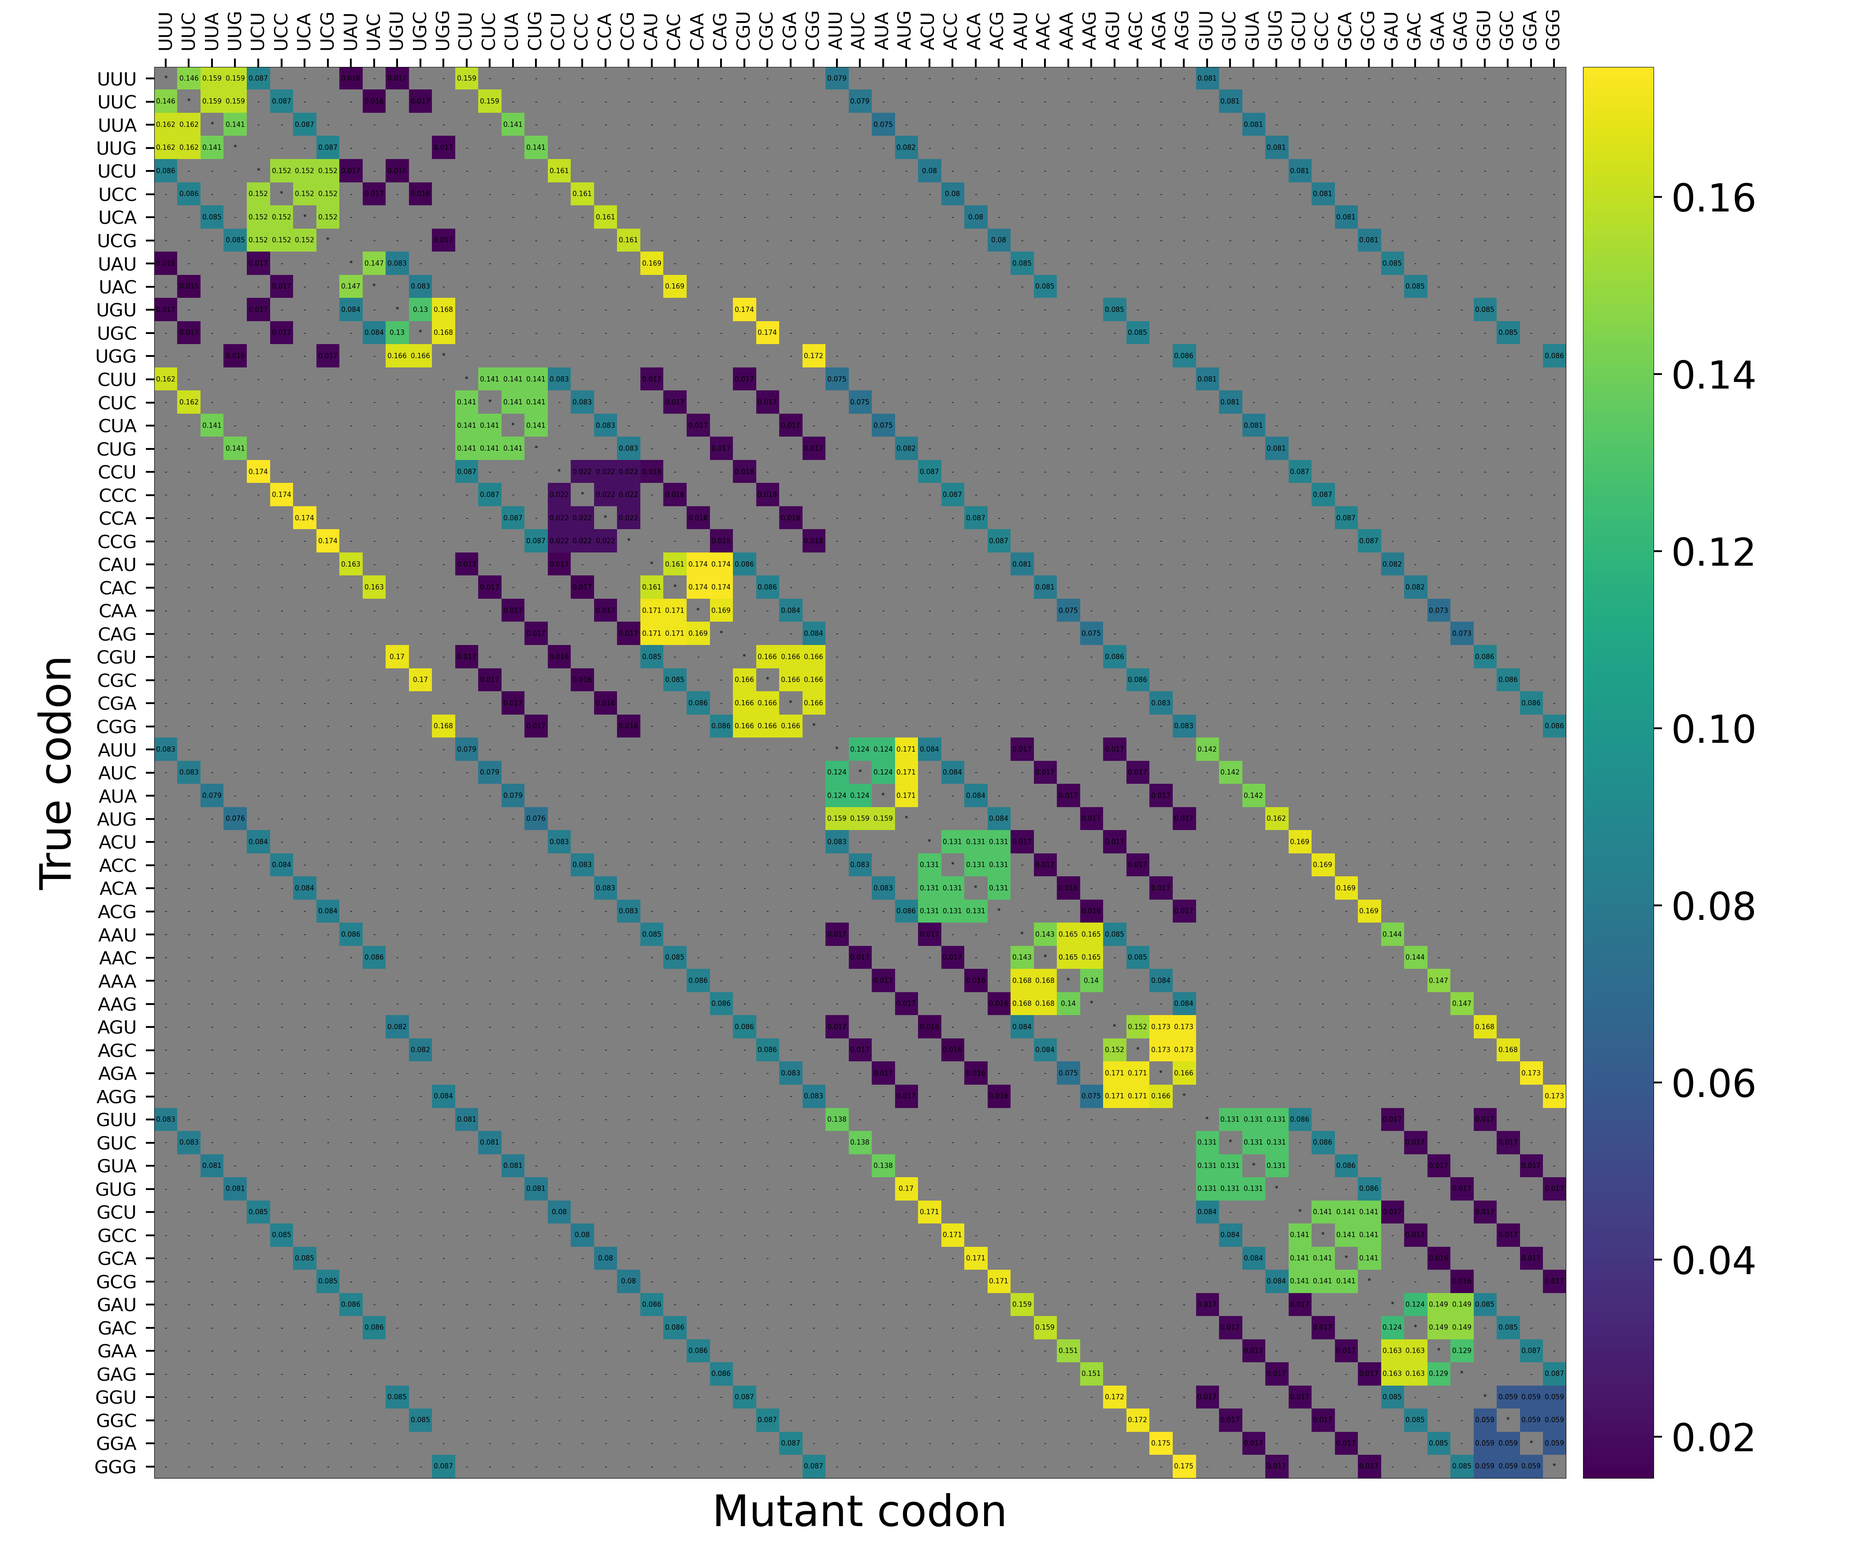
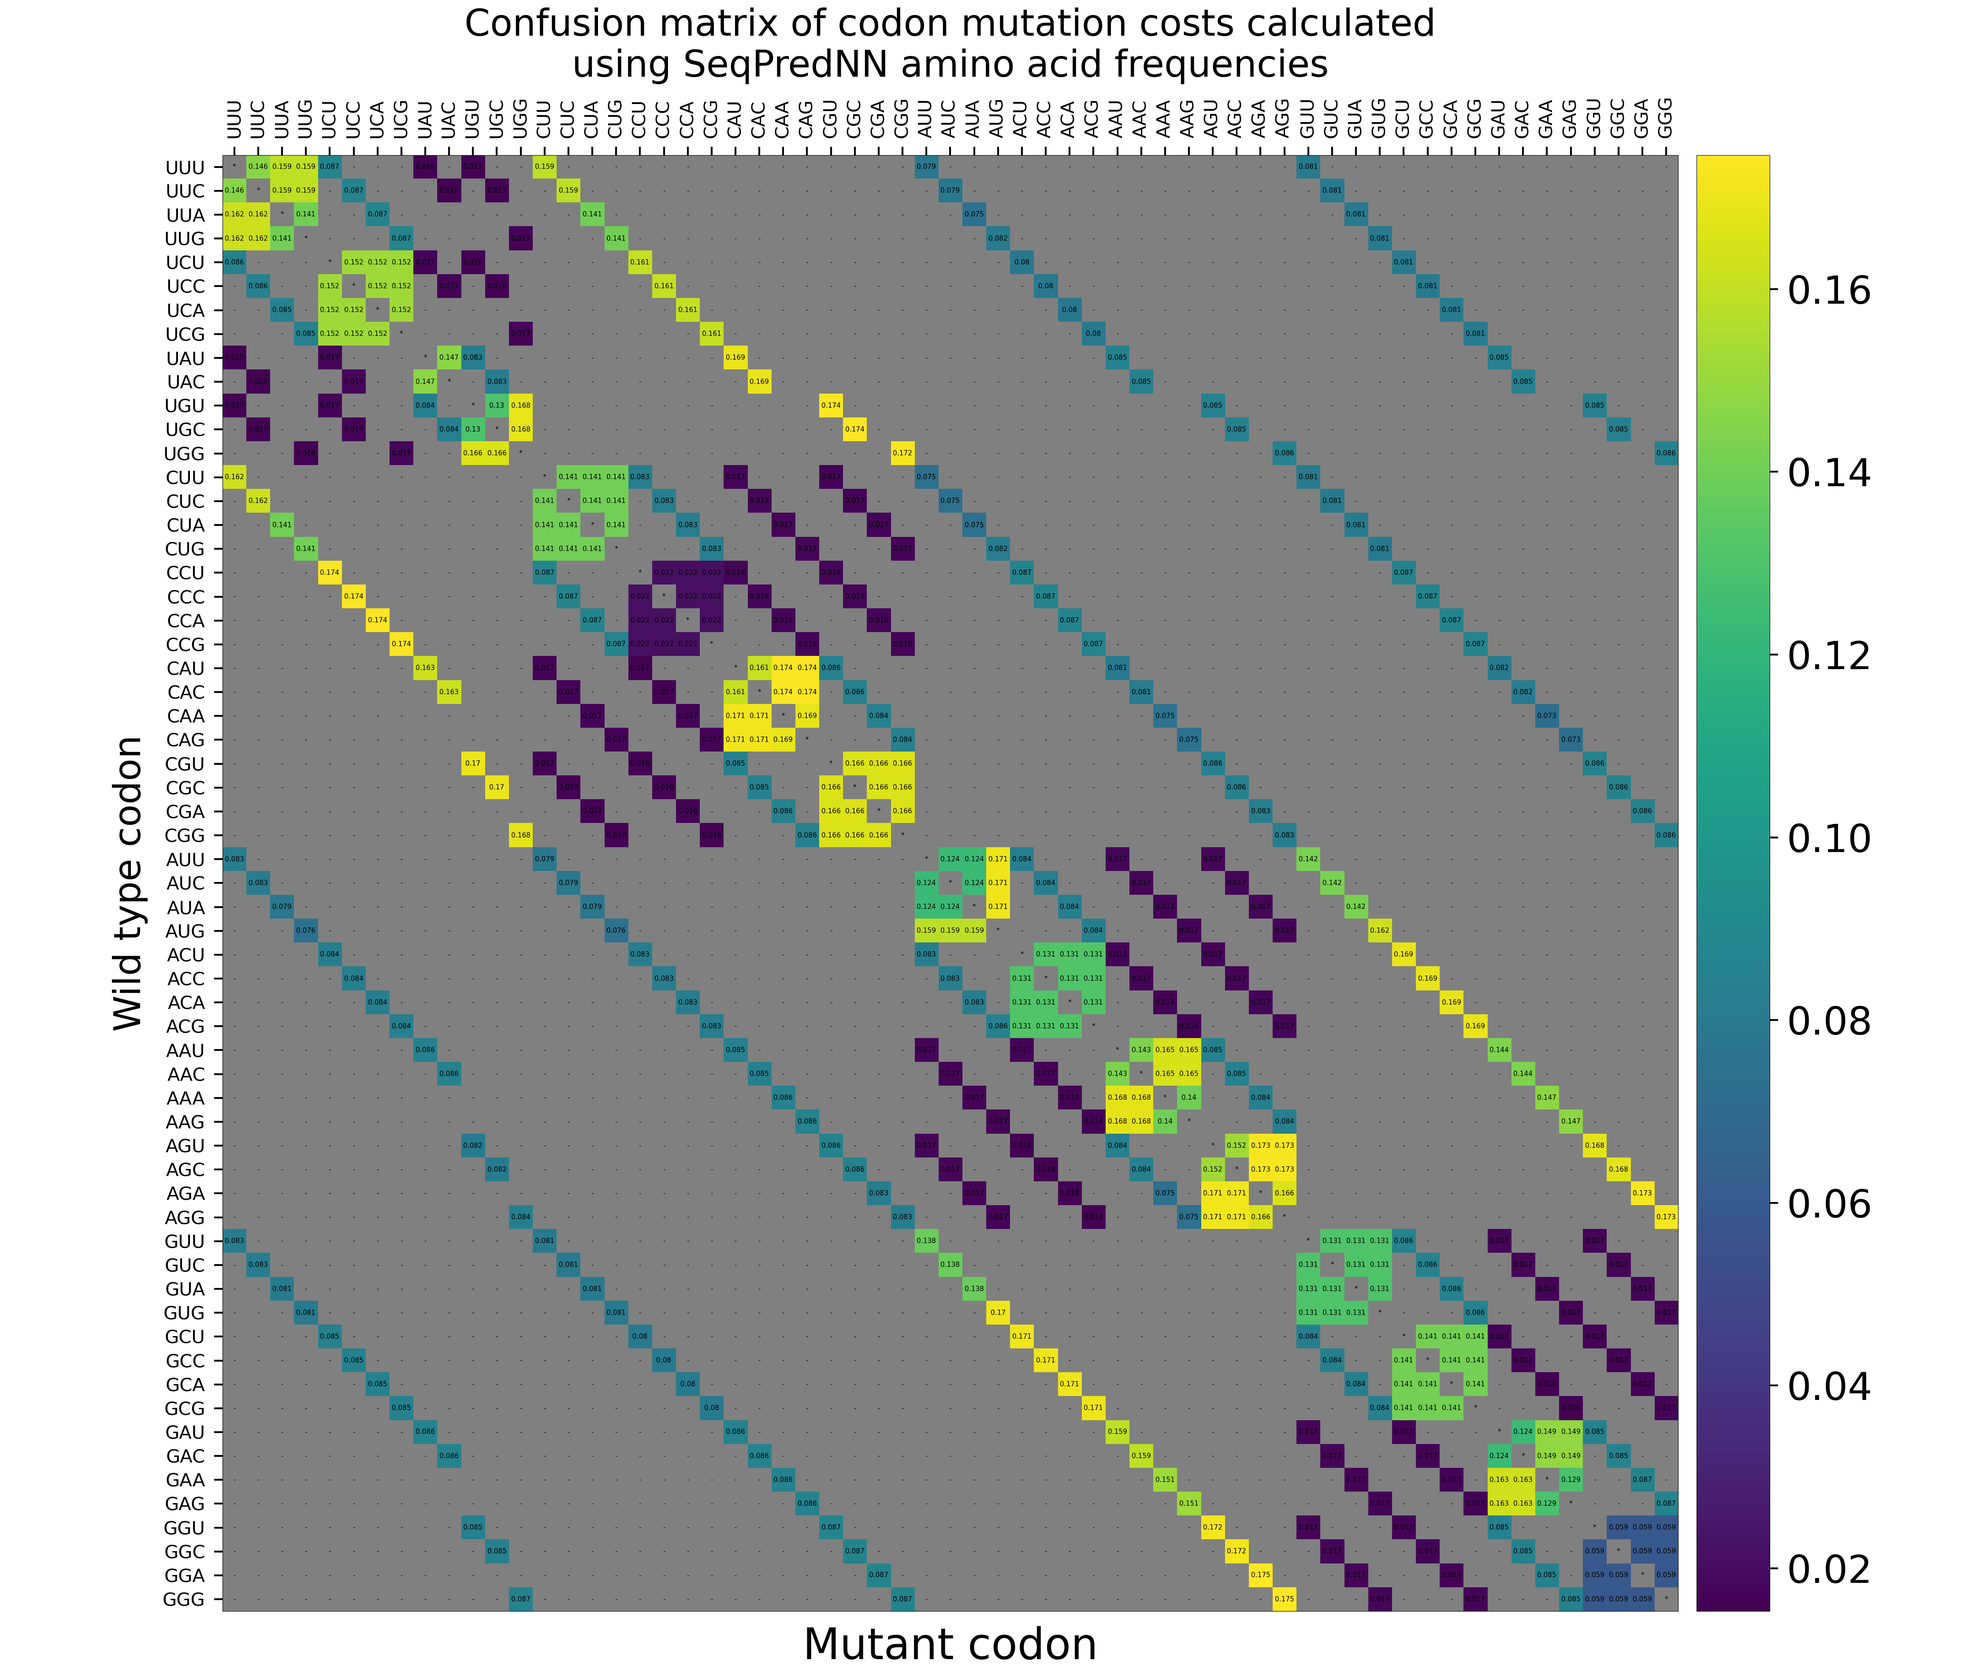
Spearman's rank test

diff --git a/cost_function_stuff/cost_function.py b/cost_function_stuff/cost_function.py
@@ -12,6 +12,7 @@ import numpy
 from scipy.stats import kstest
 from scipy.stats import normaltest
 from scipy.stats import shapiro 
+from scipy.stats import spearmanr 
 import sklearn.metrics as metrics
 
 #generate normalised substitution matrix list from .csv
@@ -24,8 +25,14 @@ for row in range(len(normalised_substitution_matrix)):
 SeqPredNN_codon_matrix = [[0 for x in range(61)] for y in range(61)]
 Koonin_codon_matrix = [[0 for x in range(61)] for y in range(61)]
 
+neutral_substitution_matrix = [[0 for x in range(61)] for y in range(61)]
+neutral_substitution_matrix_PLOTS = [[0 for x in range(61)] for y in range(61)]
+
 SeqPredNN_codon_matrix_PLOTS = [[0 for x in range(61)] for y in range(61)]
 Koonin_codon_matrix_PLOTS = [[0 for x in range(61)] for y in range(61)]
+
+SeqPredNN_codon_matrix_NORM_PLOTS = [[0 for x in range(61)] for y in range(61)]
+Koonin_codon_matrix_NORM_PLOTS = [[0 for x in range(61)] for y in range(61)]
 # Higgs_codon_matrix = [[0 for x in range(61)] for y in range(61)]
 
 SeqPredNN_codon_matrix_NORM = [[0 for x in range(61)] for y in range(61)]
@@ -173,6 +180,8 @@ def get_cost(true_codon_index, mutant_codon_index, mode, codon_dict, codons_with
         aa_difference = 1 - float(normalised_substitution_matrix[true_aa_index][mutant_aa_index])
     elif mode == "Koonin":
         aa_difference = pow((polar_requirement_scale.get(true_aa) - polar_requirement_scale.get(mutant_aa)), 2)
+    elif mode == "neutral":
+        aa_difference = 1
 
     codon_mutation_prob = get_codon_mutation_prob(true_codon, mutant_codon)
     if codon_mutation_prob == '*':
@@ -254,7 +263,7 @@ def generate_sample_set(sample_size, SeqPredNN_sample_code_costs, SeqPredNN_samp
             code_costs.append(get_code_cost(temp_cost_matrix))
 
             #get code cost for normalised data matrix
-            norm_cost_matrix = normalise_matrix(minimum, maximum, temp_cost_matrix)
+            norm_cost_matrix = normalise_matrix_SAMPLES(minimum, maximum, temp_cost_matrix)
 
             norm_code_costs.append(get_code_cost(norm_cost_matrix))
 
@@ -282,42 +291,42 @@ def generate_sample_set(sample_size, SeqPredNN_sample_code_costs, SeqPredNN_samp
         series_norm = pd.Series(norm_code_costs)
         print(series_norm.describe())
         
-        if j == 0:
-            plot_samples(sample_size, code_costs, "SeqPredNN", False)
-            plot_samples(sample_size, norm_code_costs, "SeqPredNN", True)
-        if j == 1:
-            plot_samples(sample_size, code_costs, "Koonin", False)
-            plot_samples(sample_size, norm_code_costs, "Koonin", True)
+        # if j == 0:
+        #     plot_samples(sample_size, code_costs, "SeqPredNN", False)
+        #     plot_samples(sample_size, norm_code_costs, "SeqPredNN", True)
+        # if j == 1:
+        #     plot_samples(sample_size, code_costs, "Koonin", False)
+        #     plot_samples(sample_size, norm_code_costs, "Koonin", True)
 
         code_costs.clear()
         norm_code_costs.clear()
     
-    print("^^^^^^^^^^^^^^^^^^^^^^^^^^^^^^^^^^^^^^^^^^^^^^^^^^^^^^^^^^^^^^^^^^^^^^^^^^^^^^^^^^^^^^^^")
-    print("SeqPredNN_sample_code_costs: " + str(shapiro(SeqPredNN_sample_code_costs)))
-    if shapiro(SeqPredNN_sample_code_costs).pvalue > 0.05:
-        print("Normal = TRUE")
-    print("SeqPredNN_sample_code_costs_NORM: " + str(shapiro(SeqPredNN_sample_code_costs_NORM)))
-    if shapiro(SeqPredNN_sample_code_costs_NORM).pvalue > 0.05:
-        print("Normal = TRUE")
-    print("Koonin_sample_code_costs: " + str(shapiro(Koonin_sample_code_costs)))
-    if shapiro(Koonin_sample_code_costs).pvalue > 0.05:
-        print("Normal = TRUE")
-    print("Koonin_sample_code_costs_NORM: " + str(shapiro(Koonin_sample_code_costs_NORM)))
-    if shapiro(Koonin_sample_code_costs_NORM).pvalue > 0.05:
-        print("Normal = TRUE")
-    print("^^^^^^^^^^^^^^^^^^^^^^^^^^^^^^^^^^^^^^^^^^^^^^^^^^^^^^^^^^^^^^^^^^^^^^^^^^^^^^^^^^^^^^^^")
-    print("SeqPredNN_sample_code_costs: " + str(normaltest(SeqPredNN_sample_code_costs)))
-    if normaltest(SeqPredNN_sample_code_costs).pvalue > 0.05:
-        print("Normal = TRUE")
-    print("SeqPredNN_sample_code_costs_NORM: " + str(normaltest(SeqPredNN_sample_code_costs_NORM)))
-    if normaltest(SeqPredNN_sample_code_costs_NORM).pvalue > 0.05:
-        print("Normal = TRUE")
-    print("Koonin_sample_code_costs: " + str(normaltest(Koonin_sample_code_costs)))
-    if normaltest(Koonin_sample_code_costs).pvalue > 0.05:
-        print("Normal = TRUE")
-    print("Koonin_sample_code_costs_NORM: " + str(normaltest(Koonin_sample_code_costs_NORM)))
-    if normaltest(Koonin_sample_code_costs_NORM).pvalue > 0.05:
-        print("Normal = TRUE")
+    # print("^^^^^^^^^^^^^^^^^^^^^^^^^^^^^^^^^^^^^^^^^^^^^^^^^^^^^^^^^^^^^^^^^^^^^^^^^^^^^^^^^^^^^^^^")
+    # print("SeqPredNN_sample_code_costs: " + str(shapiro(SeqPredNN_sample_code_costs)))
+    # if shapiro(SeqPredNN_sample_code_costs).pvalue > 0.05:
+    #     print("Normal = TRUE")
+    # print("SeqPredNN_sample_code_costs_NORM: " + str(shapiro(SeqPredNN_sample_code_costs_NORM)))
+    # if shapiro(SeqPredNN_sample_code_costs_NORM).pvalue > 0.05:
+    #     print("Normal = TRUE")
+    # print("Koonin_sample_code_costs: " + str(shapiro(Koonin_sample_code_costs)))
+    # if shapiro(Koonin_sample_code_costs).pvalue > 0.05:
+    #     print("Normal = TRUE")
+    # print("Koonin_sample_code_costs_NORM: " + str(shapiro(Koonin_sample_code_costs_NORM)))
+    # if shapiro(Koonin_sample_code_costs_NORM).pvalue > 0.05:
+    #     print("Normal = TRUE")
+    # print("^^^^^^^^^^^^^^^^^^^^^^^^^^^^^^^^^^^^^^^^^^^^^^^^^^^^^^^^^^^^^^^^^^^^^^^^^^^^^^^^^^^^^^^^")
+    # print("SeqPredNN_sample_code_costs: " + str(normaltest(SeqPredNN_sample_code_costs)))
+    # if normaltest(SeqPredNN_sample_code_costs).pvalue > 0.05:
+    #     print("Normal = TRUE")
+    # print("SeqPredNN_sample_code_costs_NORM: " + str(normaltest(SeqPredNN_sample_code_costs_NORM)))
+    # if normaltest(SeqPredNN_sample_code_costs_NORM).pvalue > 0.05:
+    #     print("Normal = TRUE")
+    # print("Koonin_sample_code_costs: " + str(normaltest(Koonin_sample_code_costs)))
+    # if normaltest(Koonin_sample_code_costs).pvalue > 0.05:
+    #     print("Normal = TRUE")
+    # print("Koonin_sample_code_costs_NORM: " + str(normaltest(Koonin_sample_code_costs_NORM)))
+    # if normaltest(Koonin_sample_code_costs_NORM).pvalue > 0.05:
+    #     print("Normal = TRUE")
     
 #plot bar graphs for samples produced
 def plot_samples(sample_size, costs, model, normalised):
@@ -403,12 +412,22 @@ def make_csvs():
             file.write(codons_excl_stop[counter] + "," + ",".join(map(str, codon_list)) + "\n")
             counter += 1
 
+    filename = "Neutral_subst_cost_matrix.csv"
+    codon_string = " ," + ",".join(codons_excl_stop) + "\n"
+    with open(filename, mode="w") as file:
+        file.write(codon_string) #first line
+        counter = 0
+        for codon_list in neutral_substitution_matrix:
+            file.write(codons_excl_stop[counter] + "," + ",".join(map(str, codon_list)) + "\n")
+            counter += 1
+
 #start cost calculations
 def calculate_SeqPredNN_and_Koonin_matrices():
     for row in range(61):
         for cell in range(61):
             SeqPredNN_codon_matrix[row][cell] = get_cost(row, cell, "SeqPredNN", codons_per_aa, codons_excl_stop, False)
             Koonin_codon_matrix[row][cell] = get_cost(row, cell, "Koonin", codons_per_aa, codons_excl_stop, False)
+            neutral_substitution_matrix[row][cell] = get_cost(row, cell, "neutral", codons_per_aa, codons_excl_stop, False)
 
             if not isinstance(SeqPredNN_codon_matrix[row][cell], str):
                 SeqPredNN_check.append(SeqPredNN_codon_matrix[row][cell])
@@ -416,10 +435,29 @@ def calculate_SeqPredNN_and_Koonin_matrices():
             if not isinstance(Koonin_codon_matrix[row][cell], str):
                 Koonin_check.append(Koonin_codon_matrix[row][cell])
 
+            if not isinstance(neutral_substitution_matrix[row][cell], str):
+                neutral_check.append(neutral_substitution_matrix[row][cell])
+
             SeqPredNN_codon_matrix_PLOTS[row][cell] = get_cost(row, cell, "SeqPredNN", codons_per_aa, codons_excl_stop, True)
             Koonin_codon_matrix_PLOTS[row][cell] = get_cost(row, cell, "Koonin", codons_per_aa, codons_excl_stop, True)
+            neutral_substitution_matrix_PLOTS[row][cell] = get_cost(row, cell, "neutral", codons_per_aa, codons_excl_stop, True)
 
-def normalise_matrix(minimum, maximum, original_matrix):
+def normalise_matrix(minimum, maximum, original_matrix, plot_matrix, norm_check):
+    normalised = [[0 for x in range(61)] for y in range(61)]
+
+    for row in range(len(original_matrix)):
+        for cell in range(len(original_matrix)):
+            if not isinstance(original_matrix[row][cell], str):
+                normalised[row][cell] = normalise_cost(minimum, maximum, original_matrix[row][cell])
+                plot_matrix[row][cell] = normalise_cost(minimum, maximum, original_matrix[row][cell])
+                norm_check.append(normalised[row][cell])
+            if isinstance(original_matrix[row][cell], str):
+                normalised[row][cell] = original_matrix[row][cell]
+                plot_matrix[row][cell] = -10
+
+    return(normalised)
+
+def normalise_matrix_SAMPLES(minimum, maximum, original_matrix):
     normalised = [[0 for x in range(61)] for y in range(61)]
 
     for row in range(len(original_matrix)):
@@ -432,15 +470,17 @@ def normalise_matrix(minimum, maximum, original_matrix):
     return(normalised)
 
 # def confusion_matrix(self, true_residues, predicted_residues, normalize, file_name):
-def confusion_matrix(plot_matrix, original_matrix, minimum, maximum, filename):
+def confusion_matrix(plot_matrix, original_matrix, minimum, maximum, filename, title):
 
-    fig, ax = plt.subplots(figsize=(42, 35))
+    fig, ax = plt.subplots(figsize=(45, 38))
     plt.rcParams['font.size'] = 11
+    plt.rcParams['axes.titlesize'] = 60
 
     cmap = matplotlib.colormaps.get_cmap('viridis')
     cmap.set_under(color='grey')
     img = ax.imshow(plot_matrix, cmap=cmap, vmin=minimum, vmax=maximum)
 
+    plt.title(title, pad=30)
     ax.set_xticks(np.arange(61))
     ax.set_yticks(np.arange(61))
     ax.set_xticklabels(codons_excl_stop, rotation = 90)
@@ -449,10 +489,8 @@ def confusion_matrix(plot_matrix, original_matrix, minimum, maximum, filename):
     ax.tick_params(bottom=False, top=True, left=True, right=False)
     ax.tick_params(labelbottom=False, labeltop=True, labelleft=True, labelright=False)
     ax.set_xlabel('Mutant codon', fontsize=70, labelpad=24)
-    ax.set_ylabel('True codon', fontsize=70, labelpad=24)
+    ax.set_ylabel('Wild type codon', fontsize=60, labelpad=24)
 
-    # psm = ax.pcolormesh(plot_matrix, cmap='viridis', vmin=minimum, vmax=maximum)
-    # fig.colorbar(psm, ax=ax)
     for i in range(61):
         for j in range(61):
             if not isinstance(original_matrix[i][j], str):
@@ -469,8 +507,6 @@ def confusion_matrix(plot_matrix, original_matrix, minimum, maximum, filename):
     plt.savefig(f'{filename}.png')
     plt.close()
 
-    
-    # plt.close()
 
 SeqPredNN_cost_min = 0
 SeqPredNN_cost_max = 0
@@ -478,7 +514,10 @@ Koonin_cost_min = 0
 Koonin_cost_max = 0
 
 SeqPredNN_check = []
+SeqPredNN_check_NORM = []
 Koonin_check = []
+Koonin_check_NORM = []
+neutral_check = []
 
 #run calculations for SeqPredNN and Koonin matrices
 calculate_SeqPredNN_and_Koonin_matrices()
@@ -488,10 +527,12 @@ SeqPredNN_cost_min = min(SeqPredNN_check)
 SeqPredNN_cost_max = max(SeqPredNN_check)
 Koonin_cost_min = min(Koonin_check)
 Koonin_cost_max = max(Koonin_check)
+neutral_cost_min = min(neutral_check)
+neutral_cost_max = max(neutral_check)
 
 #create normalised codon mutation cost matrices
-SeqPredNN_codon_matrix_NORM = normalise_matrix(SeqPredNN_cost_min, SeqPredNN_cost_max, SeqPredNN_codon_matrix)
-Koonin_codon_matrix_NORM = normalise_matrix(Koonin_cost_min, Koonin_cost_max, Koonin_codon_matrix)
+SeqPredNN_codon_matrix_NORM = normalise_matrix(SeqPredNN_cost_min, SeqPredNN_cost_max, SeqPredNN_codon_matrix, SeqPredNN_codon_matrix_NORM_PLOTS, SeqPredNN_check_NORM)
+Koonin_codon_matrix_NORM = normalise_matrix(Koonin_cost_min, Koonin_cost_max, Koonin_codon_matrix, Koonin_codon_matrix_NORM_PLOTS, Koonin_check_NORM)
 
 #get overall code cost for SeqPredNN and Koonin matrices
 SeqPredNN_code_cost = get_code_cost(SeqPredNN_codon_matrix)
@@ -512,33 +553,23 @@ SeqPredNN_sample_code_costs = []
 SeqPredNN_sample_code_costs_NORM = []
 Koonin_sample_code_costs = []
 Koonin_sample_code_costs_NORM = []
-# generate_sample_set(800, SeqPredNN_sample_code_costs, SeqPredNN_sample_code_costs_NORM, Koonin_sample_code_costs, Koonin_sample_code_costs_NORM)
+generate_sample_set(8000, SeqPredNN_sample_code_costs, SeqPredNN_sample_code_costs_NORM, Koonin_sample_code_costs, Koonin_sample_code_costs_NORM)
+
+#Spearman's rank correlation coefficient:
+print("******************** SPEARMAN'S RANK CORRELATION COEFFICIENTS ON RANDOMLY GENERATED CODON DISTRIBUTIONS ********************")
+print("SeqPredNN vs Koonin: ")
+print(spearmanr(SeqPredNN_sample_code_costs, Koonin_sample_code_costs, alternative='less'))
+print()
+print("SeqPredNN norm vs Koonin norm: ")
+print(spearmanr(SeqPredNN_sample_code_costs_NORM, Koonin_sample_code_costs_NORM, alternative='less'))
+print()
 
 #generate .csv files
-make_csvs()
+# make_csvs()
 
-#generate plots
-confusion_matrix(SeqPredNN_codon_matrix_PLOTS, SeqPredNN_codon_matrix, min(SeqPredNN_check), max(SeqPredNN_check), "SeqPredNN_codon_matrix")
-confusion_matrix(Koonin_codon_matrix_PLOTS, Koonin_codon_matrix, min(Koonin_check), max(Koonin_check), "Koonin_codon_matrix")
-
-symmetrical_S = []
-symmetrical_K = []
-for i in range(61):
-    for j in range(61):
-        if SeqPredNN_codon_matrix[i][j] == SeqPredNN_codon_matrix[j][i]:
-            symmetrical_S.append(True)
-        elif SeqPredNN_codon_matrix[i][j] != SeqPredNN_codon_matrix[j][i]:
-            symmetrical_S.append(False)
-            print("SEQPREDNN NOT SYMMETRICAL: i=" + str(i) + " j=" + str(j))
-            
-        if Koonin_codon_matrix[i][j] == Koonin_codon_matrix[j][i]:
-            symmetrical_K.append(True)
-        elif Koonin_codon_matrix[i][j] != Koonin_codon_matrix[j][i]:
-            symmetrical_K.append(False)
-            print("KOONIN NOT SYMMETRICAL: i=" + str(i) + " j=" + str(j))
-
-if False in symmetrical_S:
-    print("SEQPREDNN NOT SYMMETRICAL")
-
-if False in symmetrical_K:
-    print("KOONIN NOT SYMMETRICAL")
+# #generate plots
+# confusion_matrix(SeqPredNN_codon_matrix_PLOTS, SeqPredNN_codon_matrix, SeqPredNN_cost_min, SeqPredNN_cost_max, "SeqPredNN_codon_matrix", "Confusion matrix of codon mutation costs calculated\nusing SeqPredNN amino acid frequencies")
+# confusion_matrix(SeqPredNN_codon_matrix_NORM_PLOTS, SeqPredNN_codon_matrix_NORM, min(SeqPredNN_check_NORM), max(SeqPredNN_check_NORM), "SeqPredNN_codon_matrix_NORM", "Confusion matrix of normalised codon mutation costs calculated\nusing SeqPredNN amino acid frequencies")
+# confusion_matrix(Koonin_codon_matrix_PLOTS, Koonin_codon_matrix, Koonin_cost_min, Koonin_cost_max, "Koonin_codon_matrix", "Confusion matrix of codon mutation costs calculated\nusing the Polarity Requirement Index")
+# confusion_matrix(Koonin_codon_matrix_NORM_PLOTS, Koonin_codon_matrix_NORM, min(Koonin_check_NORM), max(Koonin_check_NORM), "Koonin_codon_matrix_NORM", "Confusion matrix of normalised codon mutation costs calculated\nusing the Polarity Requirement Index")
+# confusion_matrix(neutral_substitution_matrix_PLOTS, neutral_substitution_matrix, neutral_cost_min, neutral_cost_max, "Neutral_subst_codon_matrix", "Confusion matrix of codon mutation costs calculated\nusing amino acid differences of 1 for all mutations")
